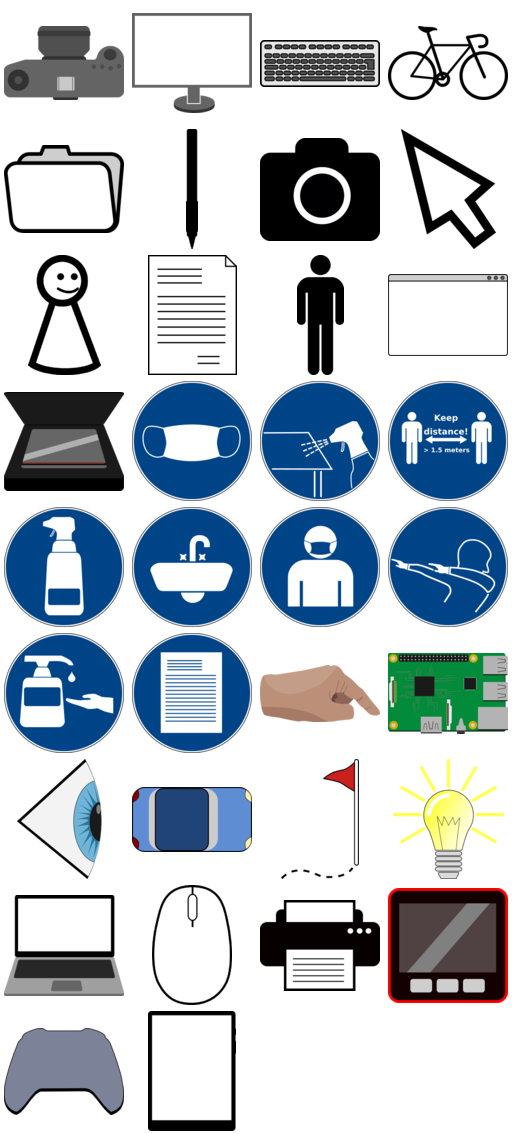
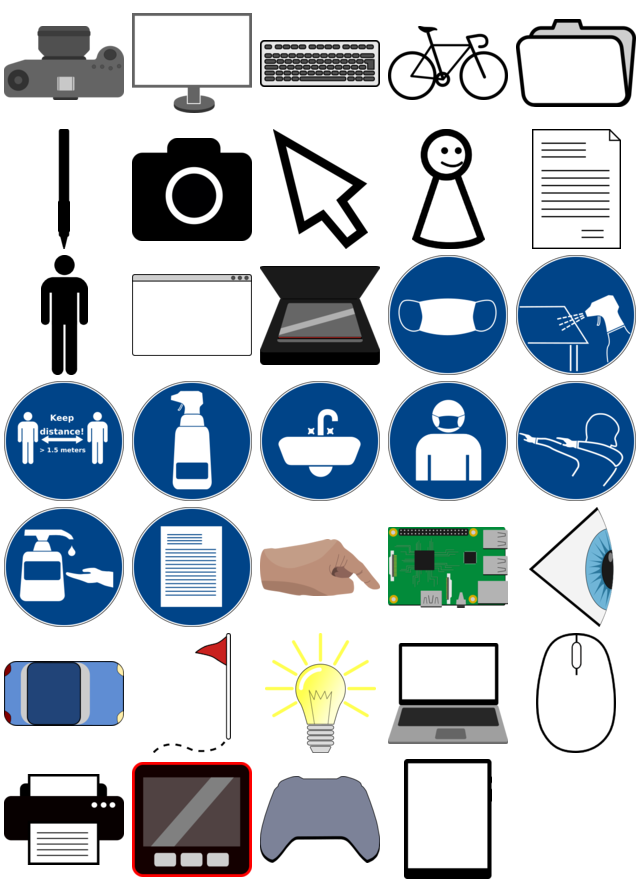
adjust preview layout to have five columns

diff --git a/README.md b/README.md
@@ -3,5 +3,5 @@
 All of the graphics in this repository were created by me and are licensed CC0 - do whatever you want with them.
 
 <p align="center">
-  <img src="preview.png" width=500>
+  <img src="preview.png" width=700>
 </p>
